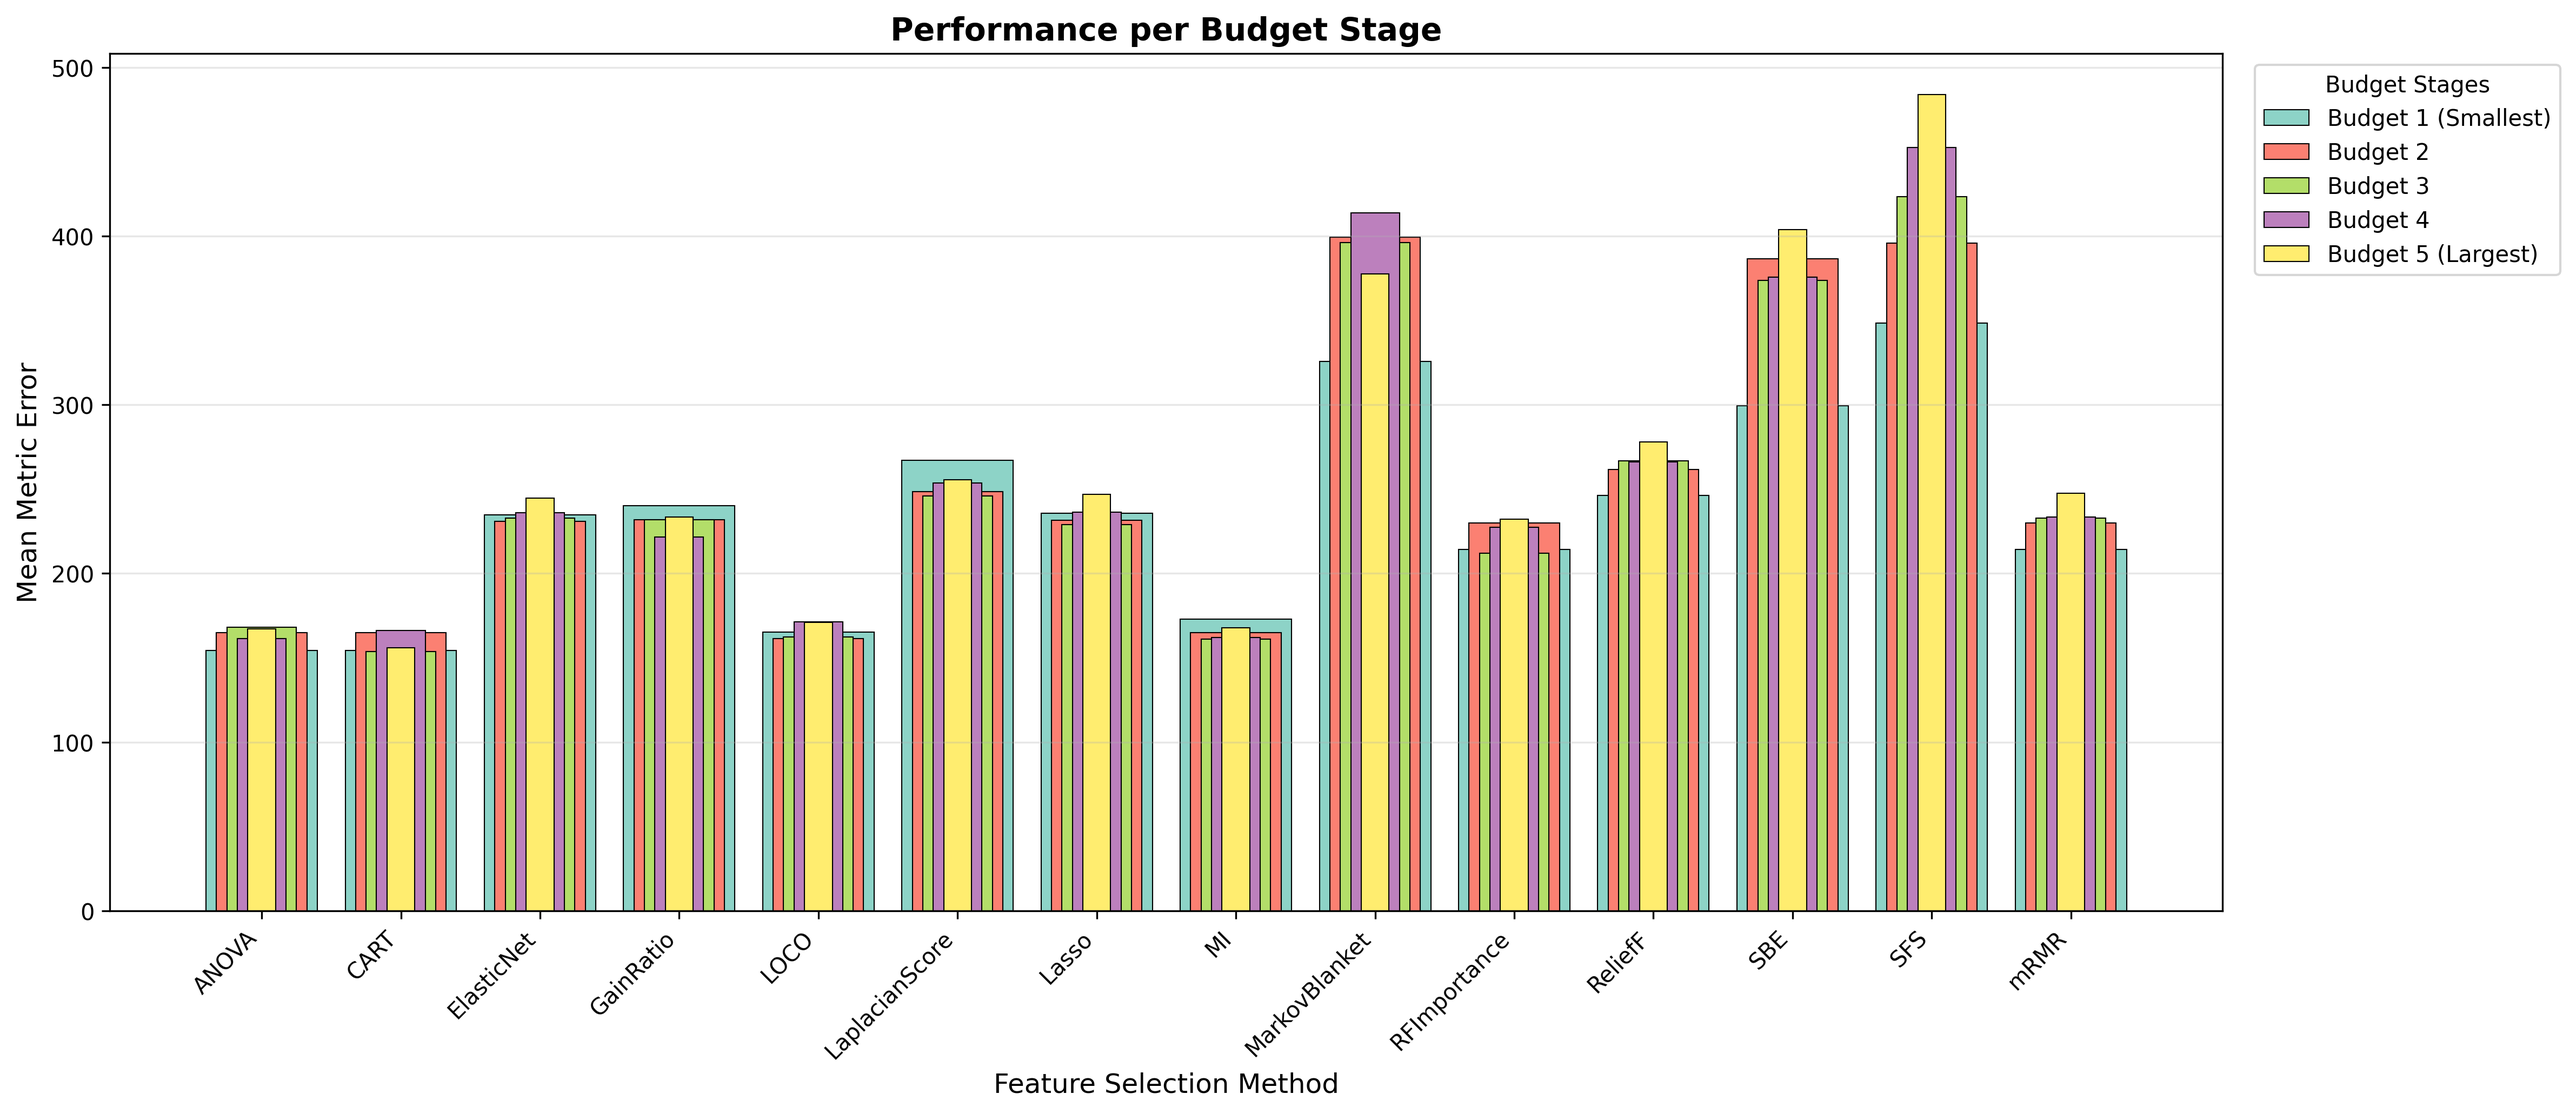
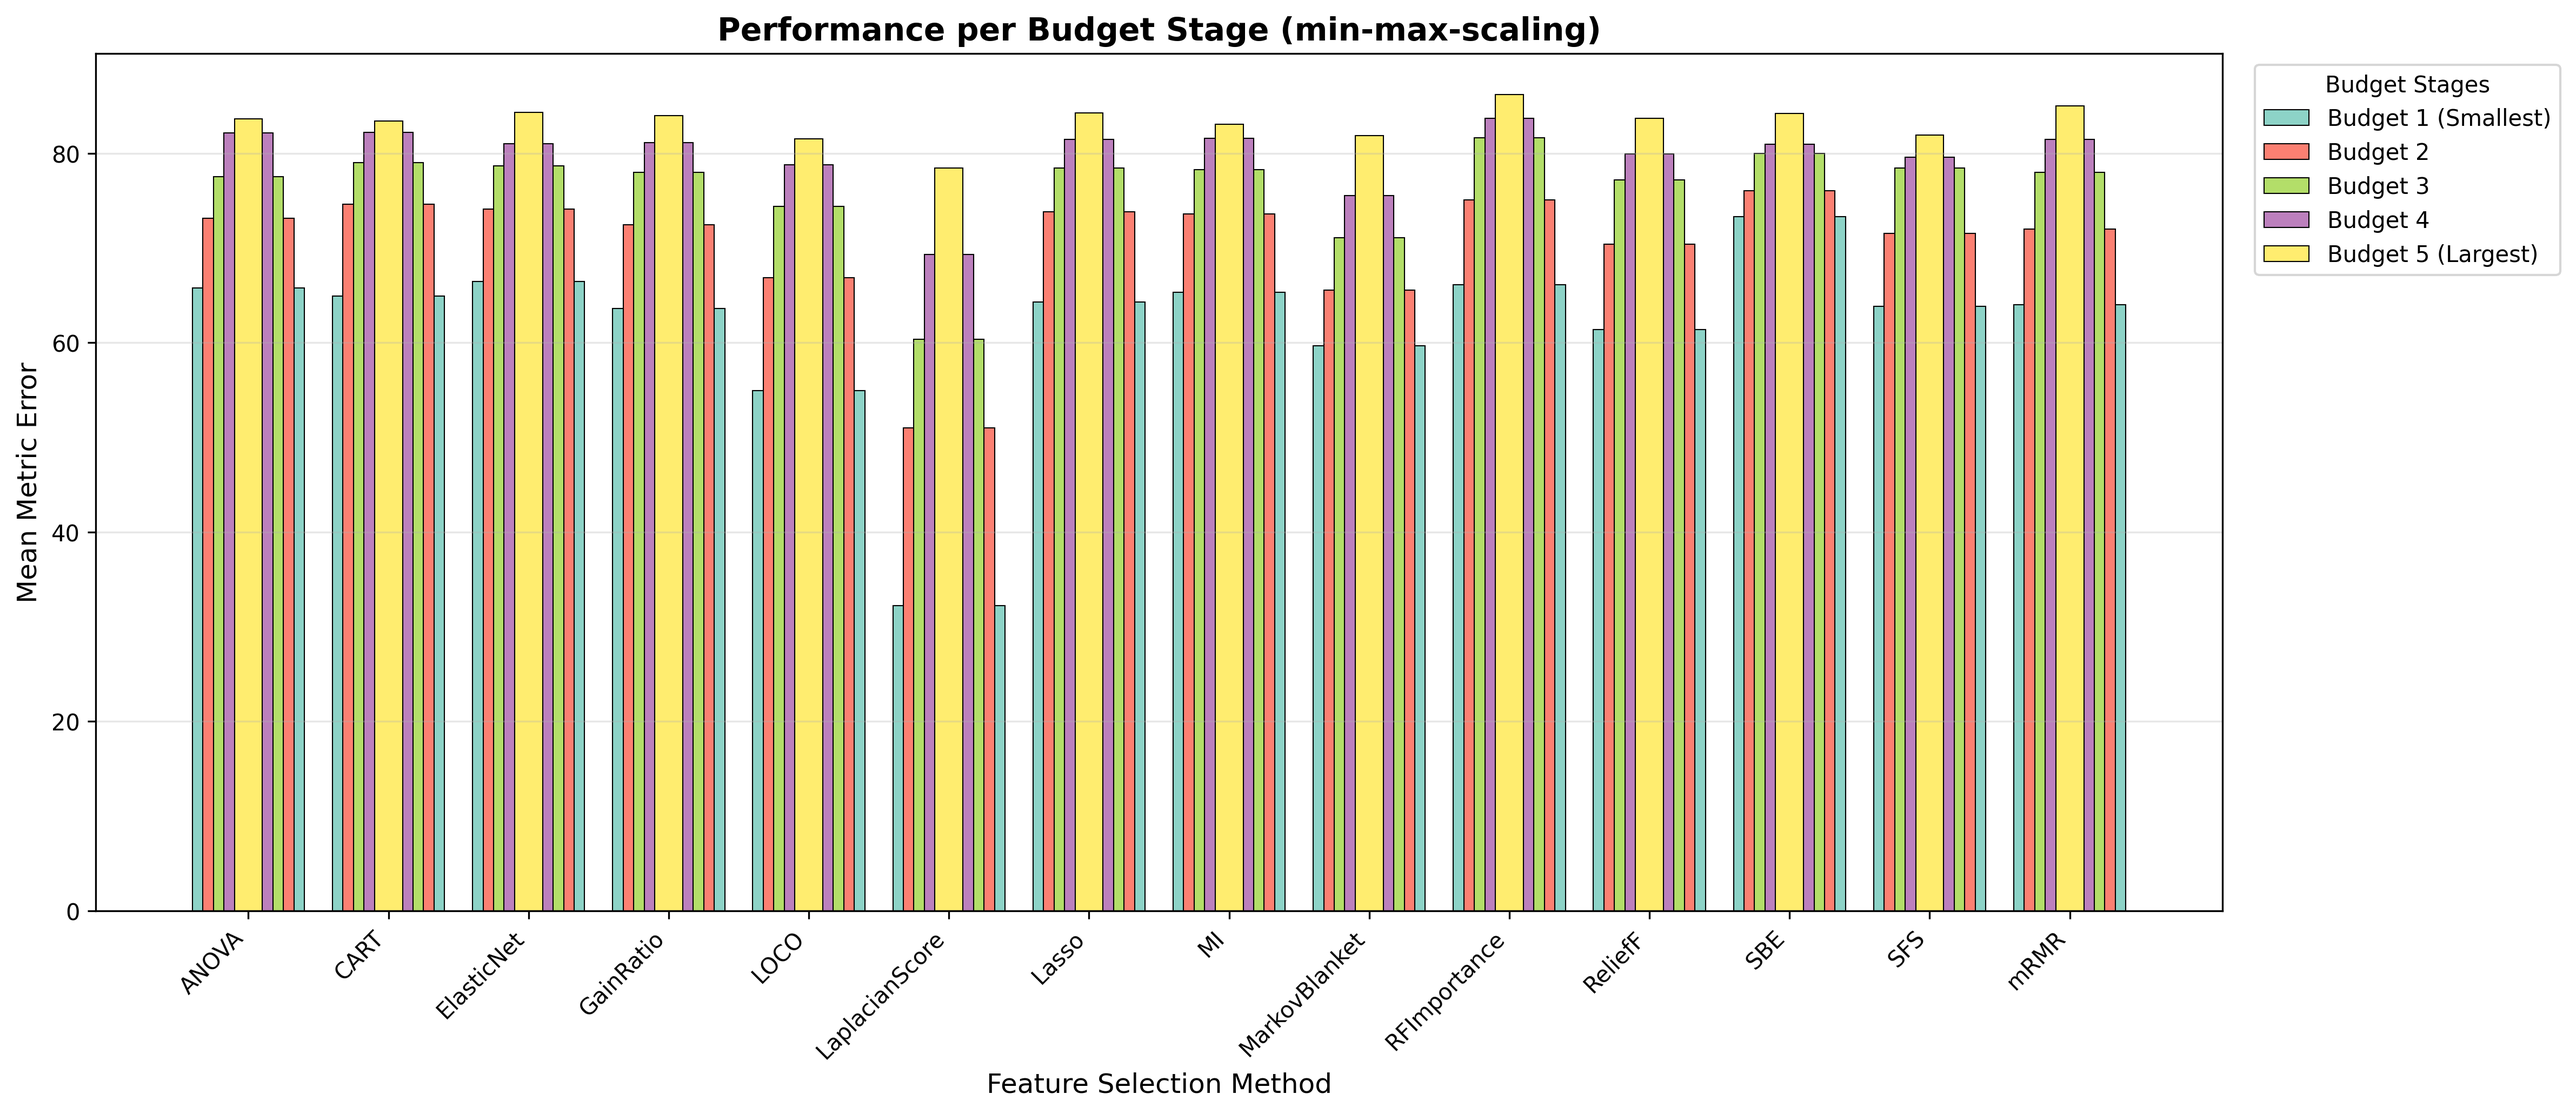
maint: add scaling for budget-wise plots

diff --git a/plotting_code/performance/performance_per_budget_v3.py b/plotting_code/performance/performance_per_budget_v3.py
@@ -6,14 +6,14 @@ from matplotlib import pyplot as plt
 from matplotlib.patches import Patch
 
 from utils.beautify import beautify_names, remove_jmi_random, add_model_name
-from utils.scaling import min_max_scale
+from utils.scaling import min_max_scale, z_score_scale, median_max_scale
 
 # TODO: Adapt file and plot name
 FILE_NAME = "results_per_split.csv"
-PLOT_NAME = "performance_per_budget_v1.png"
+PLOT_NAME = "performance_per_budget_v3.png"
 
 # TODO: Adapt title and labels
-PLOT_TITLE = "Performance per Budget Stage (min-max-scaling)"
+PLOT_TITLE = "Performance per Budget Stage (median-max scaling)"
 X_LABEL = "Feature Selection Method"
 Y_LABEL = "Mean Metric Error"
 
@@ -32,7 +32,7 @@ def plot(df):
     # This filters out any rogue data anomalies or extra splits that caused ranks 6-10.
     df = df[df["budget_stage"] <= 5]
 
-    df = min_max_scale(df)
+    df = median_max_scale(df)
 
     # Pivot table based on the budget_stage (1, 2, 3, 4, 5)
     pivot = df.pivot_table(

diff --git a/plotting_code/performance/performance_per_budget_v2.py b/plotting_code/performance/performance_per_budget_v2.py
@@ -6,14 +6,14 @@ from matplotlib import pyplot as plt
 from matplotlib.patches import Patch
 
 from utils.beautify import beautify_names, remove_jmi_random, add_model_name
-from utils.scaling import min_max_scale
+from utils.scaling import min_max_scale, z_score_scale
 
 # TODO: Adapt file and plot name
 FILE_NAME = "results_per_split.csv"
-PLOT_NAME = "performance_per_budget_v1.png"
+PLOT_NAME = "performance_per_budget_v2.png"
 
 # TODO: Adapt title and labels
-PLOT_TITLE = "Performance per Budget Stage (min-max-scaling)"
+PLOT_TITLE = "Performance per Budget Stage (z-score scaling)"
 X_LABEL = "Feature Selection Method"
 Y_LABEL = "Mean Metric Error"
 
@@ -32,7 +32,7 @@ def plot(df):
     # This filters out any rogue data anomalies or extra splits that caused ranks 6-10.
     df = df[df["budget_stage"] <= 5]
 
-    df = min_max_scale(df)
+    df = z_score_scale(df)
 
     # Pivot table based on the budget_stage (1, 2, 3, 4, 5)
     pivot = df.pivot_table(
